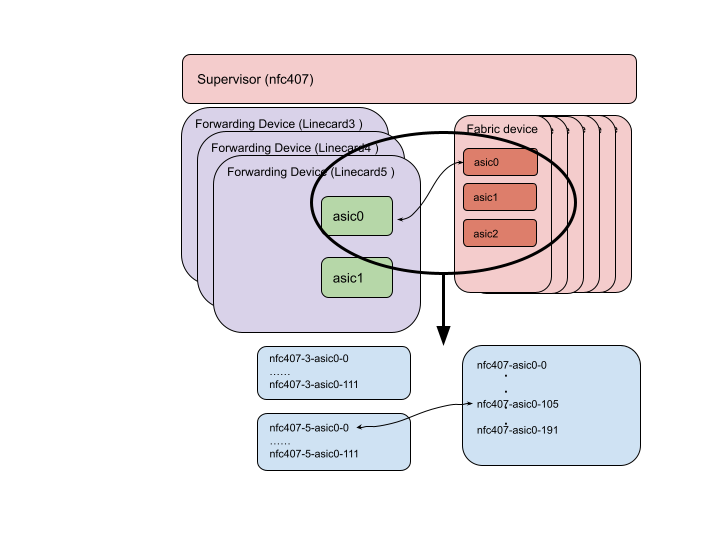
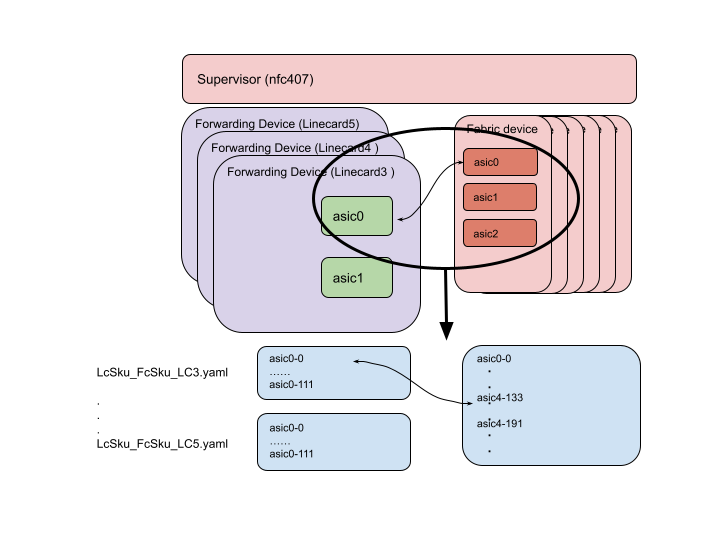
Update the test plan

diff --git a/docs/testplan/Chassis-fabric-test-plan.md b/docs/testplan/Chassis-fabric-test-plan.md
@@ -37,55 +37,33 @@ The following section describes how to store and process the expected fabric lin
 
 The above diagram illustrates an example system under test. Every forwarding ASIC is connected to every fabric ASIC.
 
-The expected fabric link status is stored in the last section of testbed.yaml file, which is called fabric_link_toplogy. This testbad.yaml file is generated dynamically when running the tests on a system. Each vendor provides their own expected fabric link information and stores in the format defined in the yaml file.  The expected status is provided per host and per ASIC, and the format is as follows:
+The expected fabric link information is stored in seperate yaml files per SKU per slot. The filename is in the format of LinecardSKU_FabriccardSKU_LC<slotNumber>.yaml. In each file the information is stored per ASIC. An example is shown in the following table.
 
 ```
-host:
-  asic:
-      link_id:
-         status: <connected/not_connected>
-         peer_asic: <asic id>
-         peer_id: <link id>
+asic:
+    link_id:
+       peer asic: <asic id>
+       peer lk: <link id>
+       peer slot: <slot number>
 ```
-Initially, testbed.yaml will contain fabric link status, such as whether or not links are connected. In the future, this information may be extended to contain fabric link connection information.
+This can be extended later for other fabric link related testing.
 
-In the above diagram, fabric link 105 on ASIC 0 of Fabric1 connects to fabric link 0 on ASIC 0 of Linecard5. The corresponding link status information as stored in testbed.yaml file will be encoded as follows:
+The files are stored in tests/voq/fabric_data, and only used by fabric testing right now. 
 
-```
-# fabric_link_topology dictionary contains information about fabric serdes links
-# topology (which fabric link is expected to be up etc.)
-# fabric_link_topology is used to generate sonic_lab_fabric_links
-# fabric_link_topology dictionary does not cross reference with other files 
-fabric_link_topology:                      # source: sonic-mgmt/ansible/files/sonic_lab_fabric_links.csv
-  nfc407-5:
-     asic0:   
-         0: 
-           status: connected
-           peer_asic: 0
-           peer_id: 105
-           ...
-  ...
-  nfc407:
-     asic0:   
-         ...
-         105: 
-           status: connected
-           peer_asic: 0
-           peer_id: 0
-  ...
-```
-
-TestbedProcessing.py parses and processes the fabric_link_topology section and subsequently generates the output in files/sonic_lab_fabric_links.csv.
-
-An excerpt of the generated output (/files/sonic_lab_fabric_links.csv) for the example link described earlier is as follows:
+For example, Linecard3 Fap0 fabric serdes link 0 connects to Fabriccard3 FE0 serdes link 133 in a test system. The sku of Linecard 3 is 7800R3A-36D2-C72 and the sku of the Fabriccard is 7808R3A-FM. The information is stored in tests/voq/fabric_data/7800R3A-36D2-C72_7808R3A-FM_LC3.yaml:
 
 ```
-device,asic,link,status,peer_asic,peer_link
-nfc407-5,0,0,connected,0,105
-...
+asic0:               ----> Fap0
+    0:               ----> serdes link 0 on Fap0
+      peer asic: 0   ----> peer asic: Fe0
+      peer lk: 133   ----> serdes 133 on Fe0
+      peer slot: 3   ----> Fabriccard3
+      ...
 ```
 
-The VOQ tests use the information in files/sonic_lab_fabric_links.csv as the expected value to compare with the fabric link status on a system.
+The voq tests read the information stored in these files as expected value to check the fabric link status of Linecards in a system.
+
+As the fabric link connection information is huge and the connection from the Linecard side and Fabriccard side are the same, the information stored in the yaml files are from Linecards side of view only. When testing the supervisor(Fabriccards), the test creates a supReferenceData structure that stores fabric link information from the Fabriccard side of view while processing and testing Linecards. 
 
 # Test Cases
 
@@ -95,7 +73,7 @@ The VOQ tests use the information in files/sonic_lab_fabric_links.csv as the exp
 Verify that when the chassis is up and running, the fabric links that are expected to be up are up.
 
 ### Test Steps
-* For each ASIC in the chassis (across different duts), run `show fabric counters port -n <asic_name>` 
+* For each ASIC in the chassis (across different duts), run `show fabric counters port` 
 
 ### Pass/Fail Criteria
 * Verify for each ASIC, the number of links that are up matches the number of links per ASIC defined in the inventory. This is expected to be stored in the host_var attribute.
